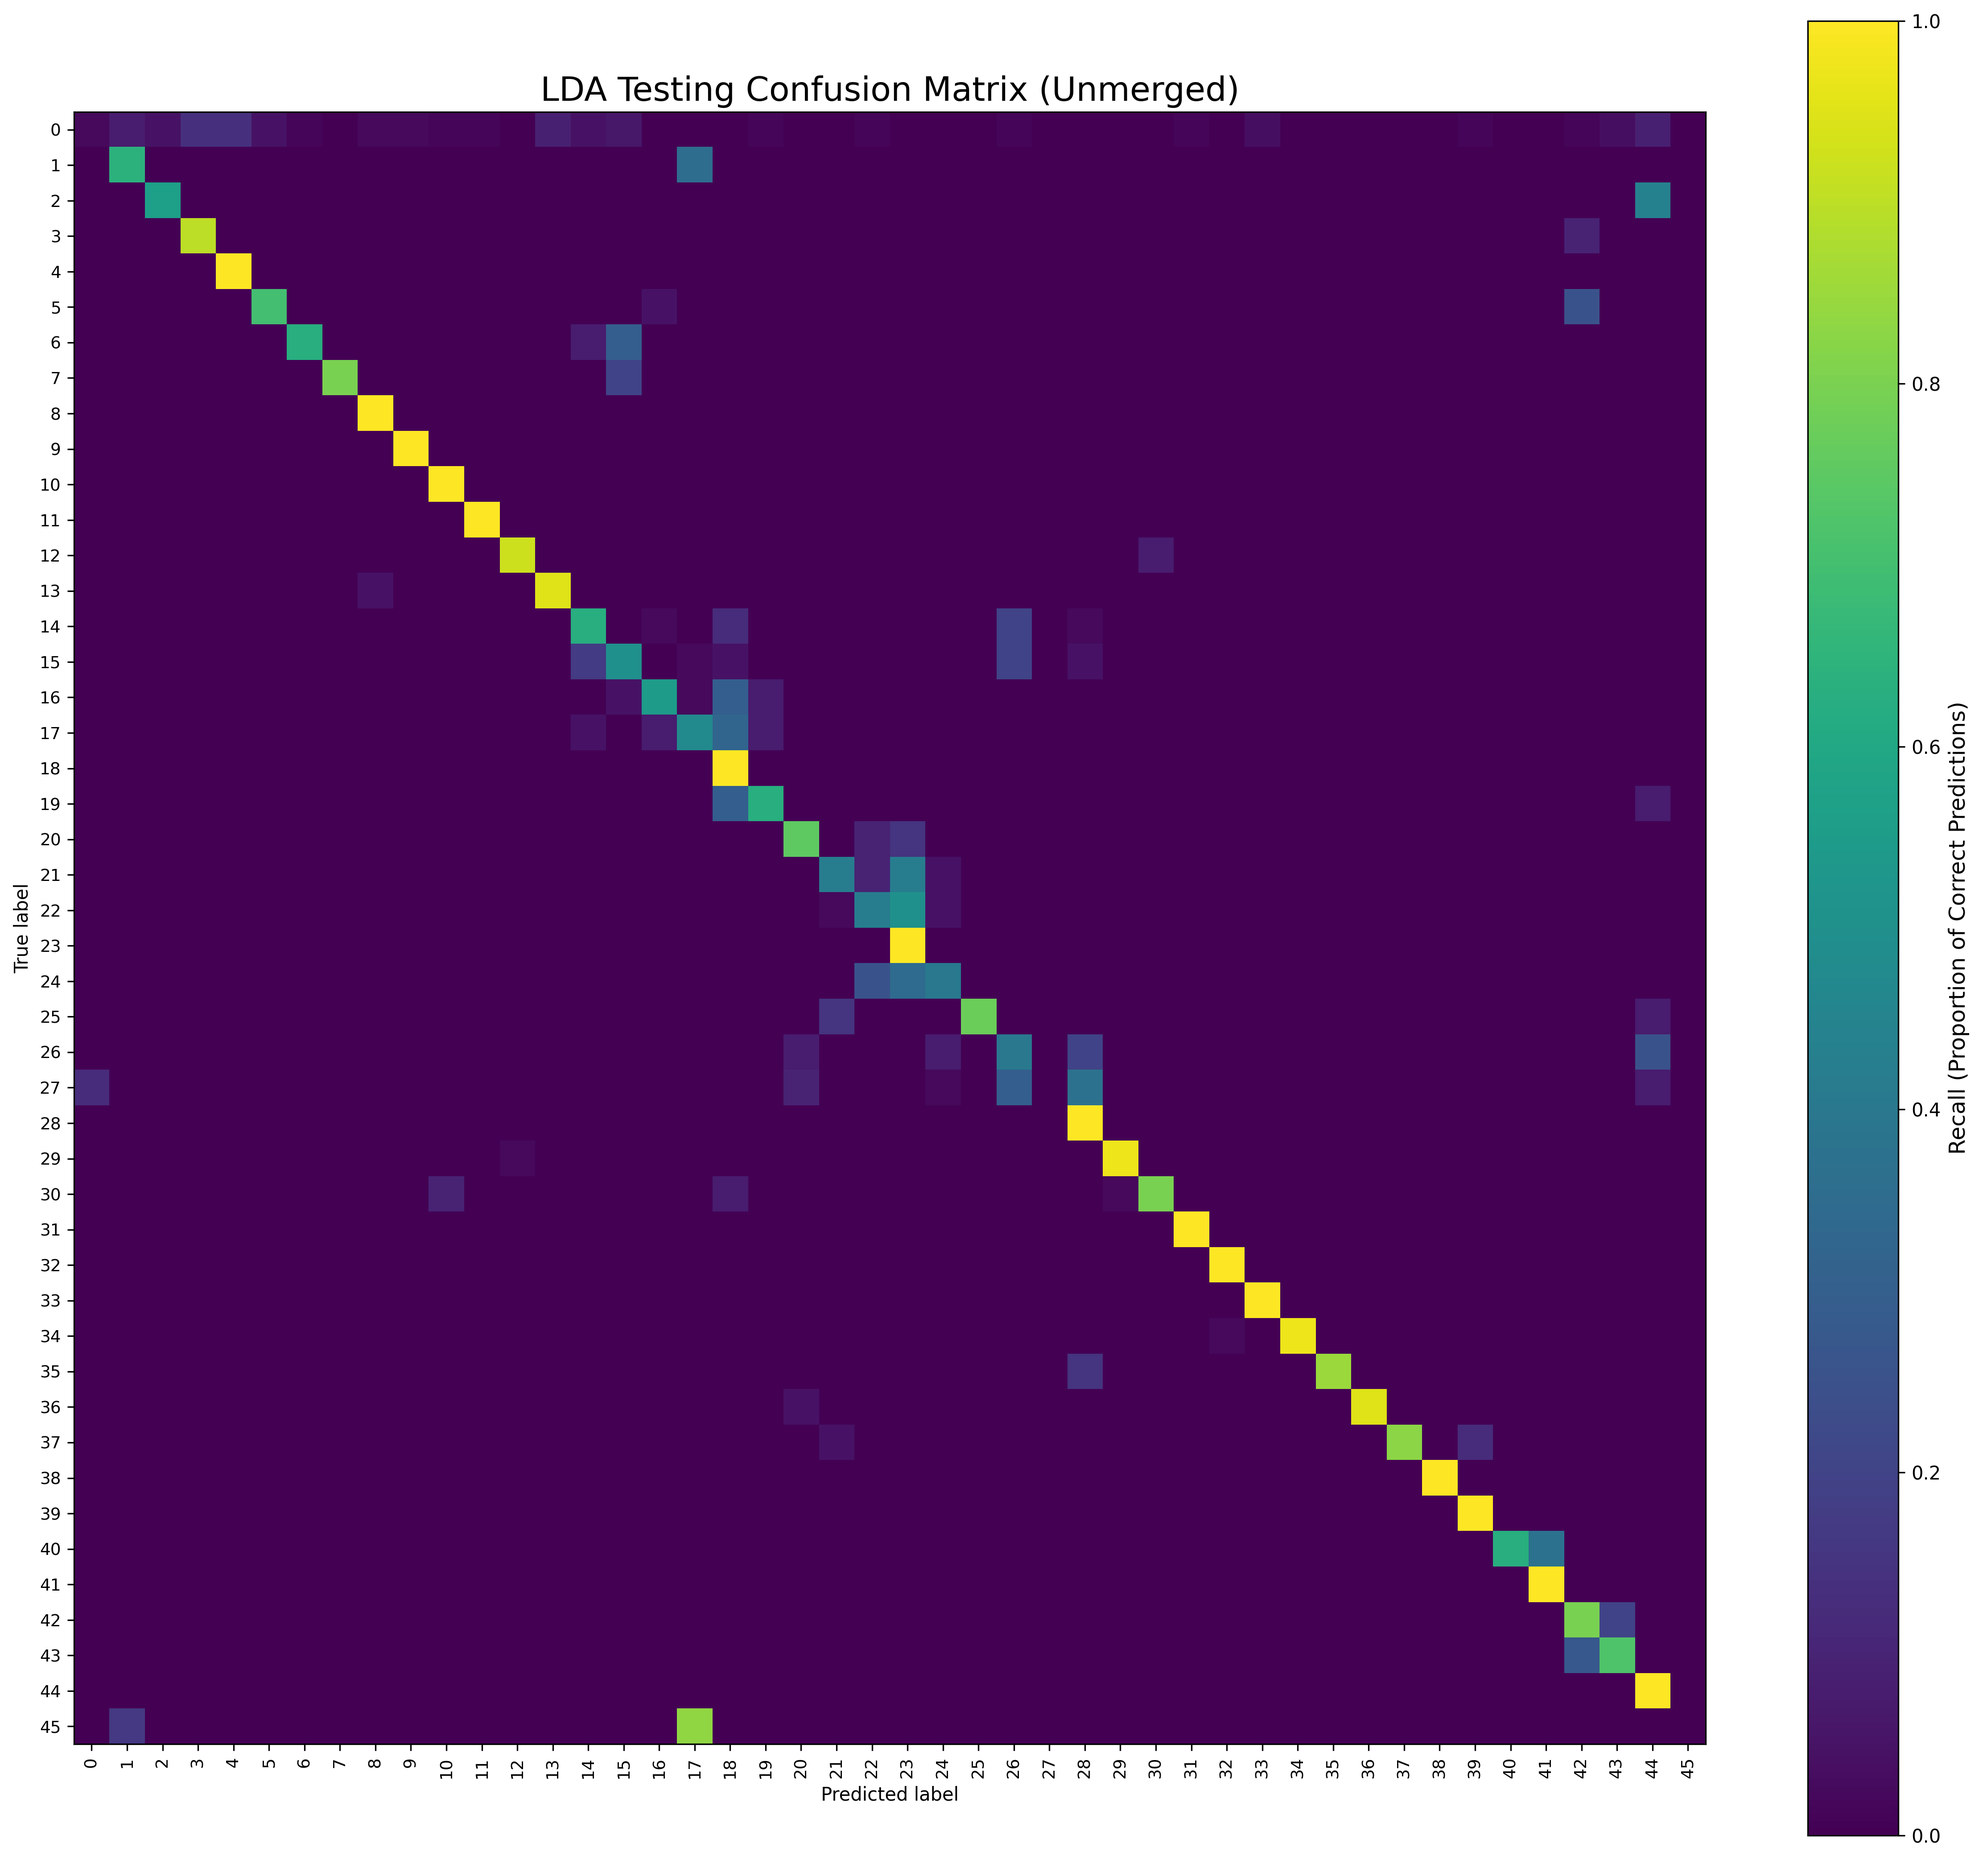
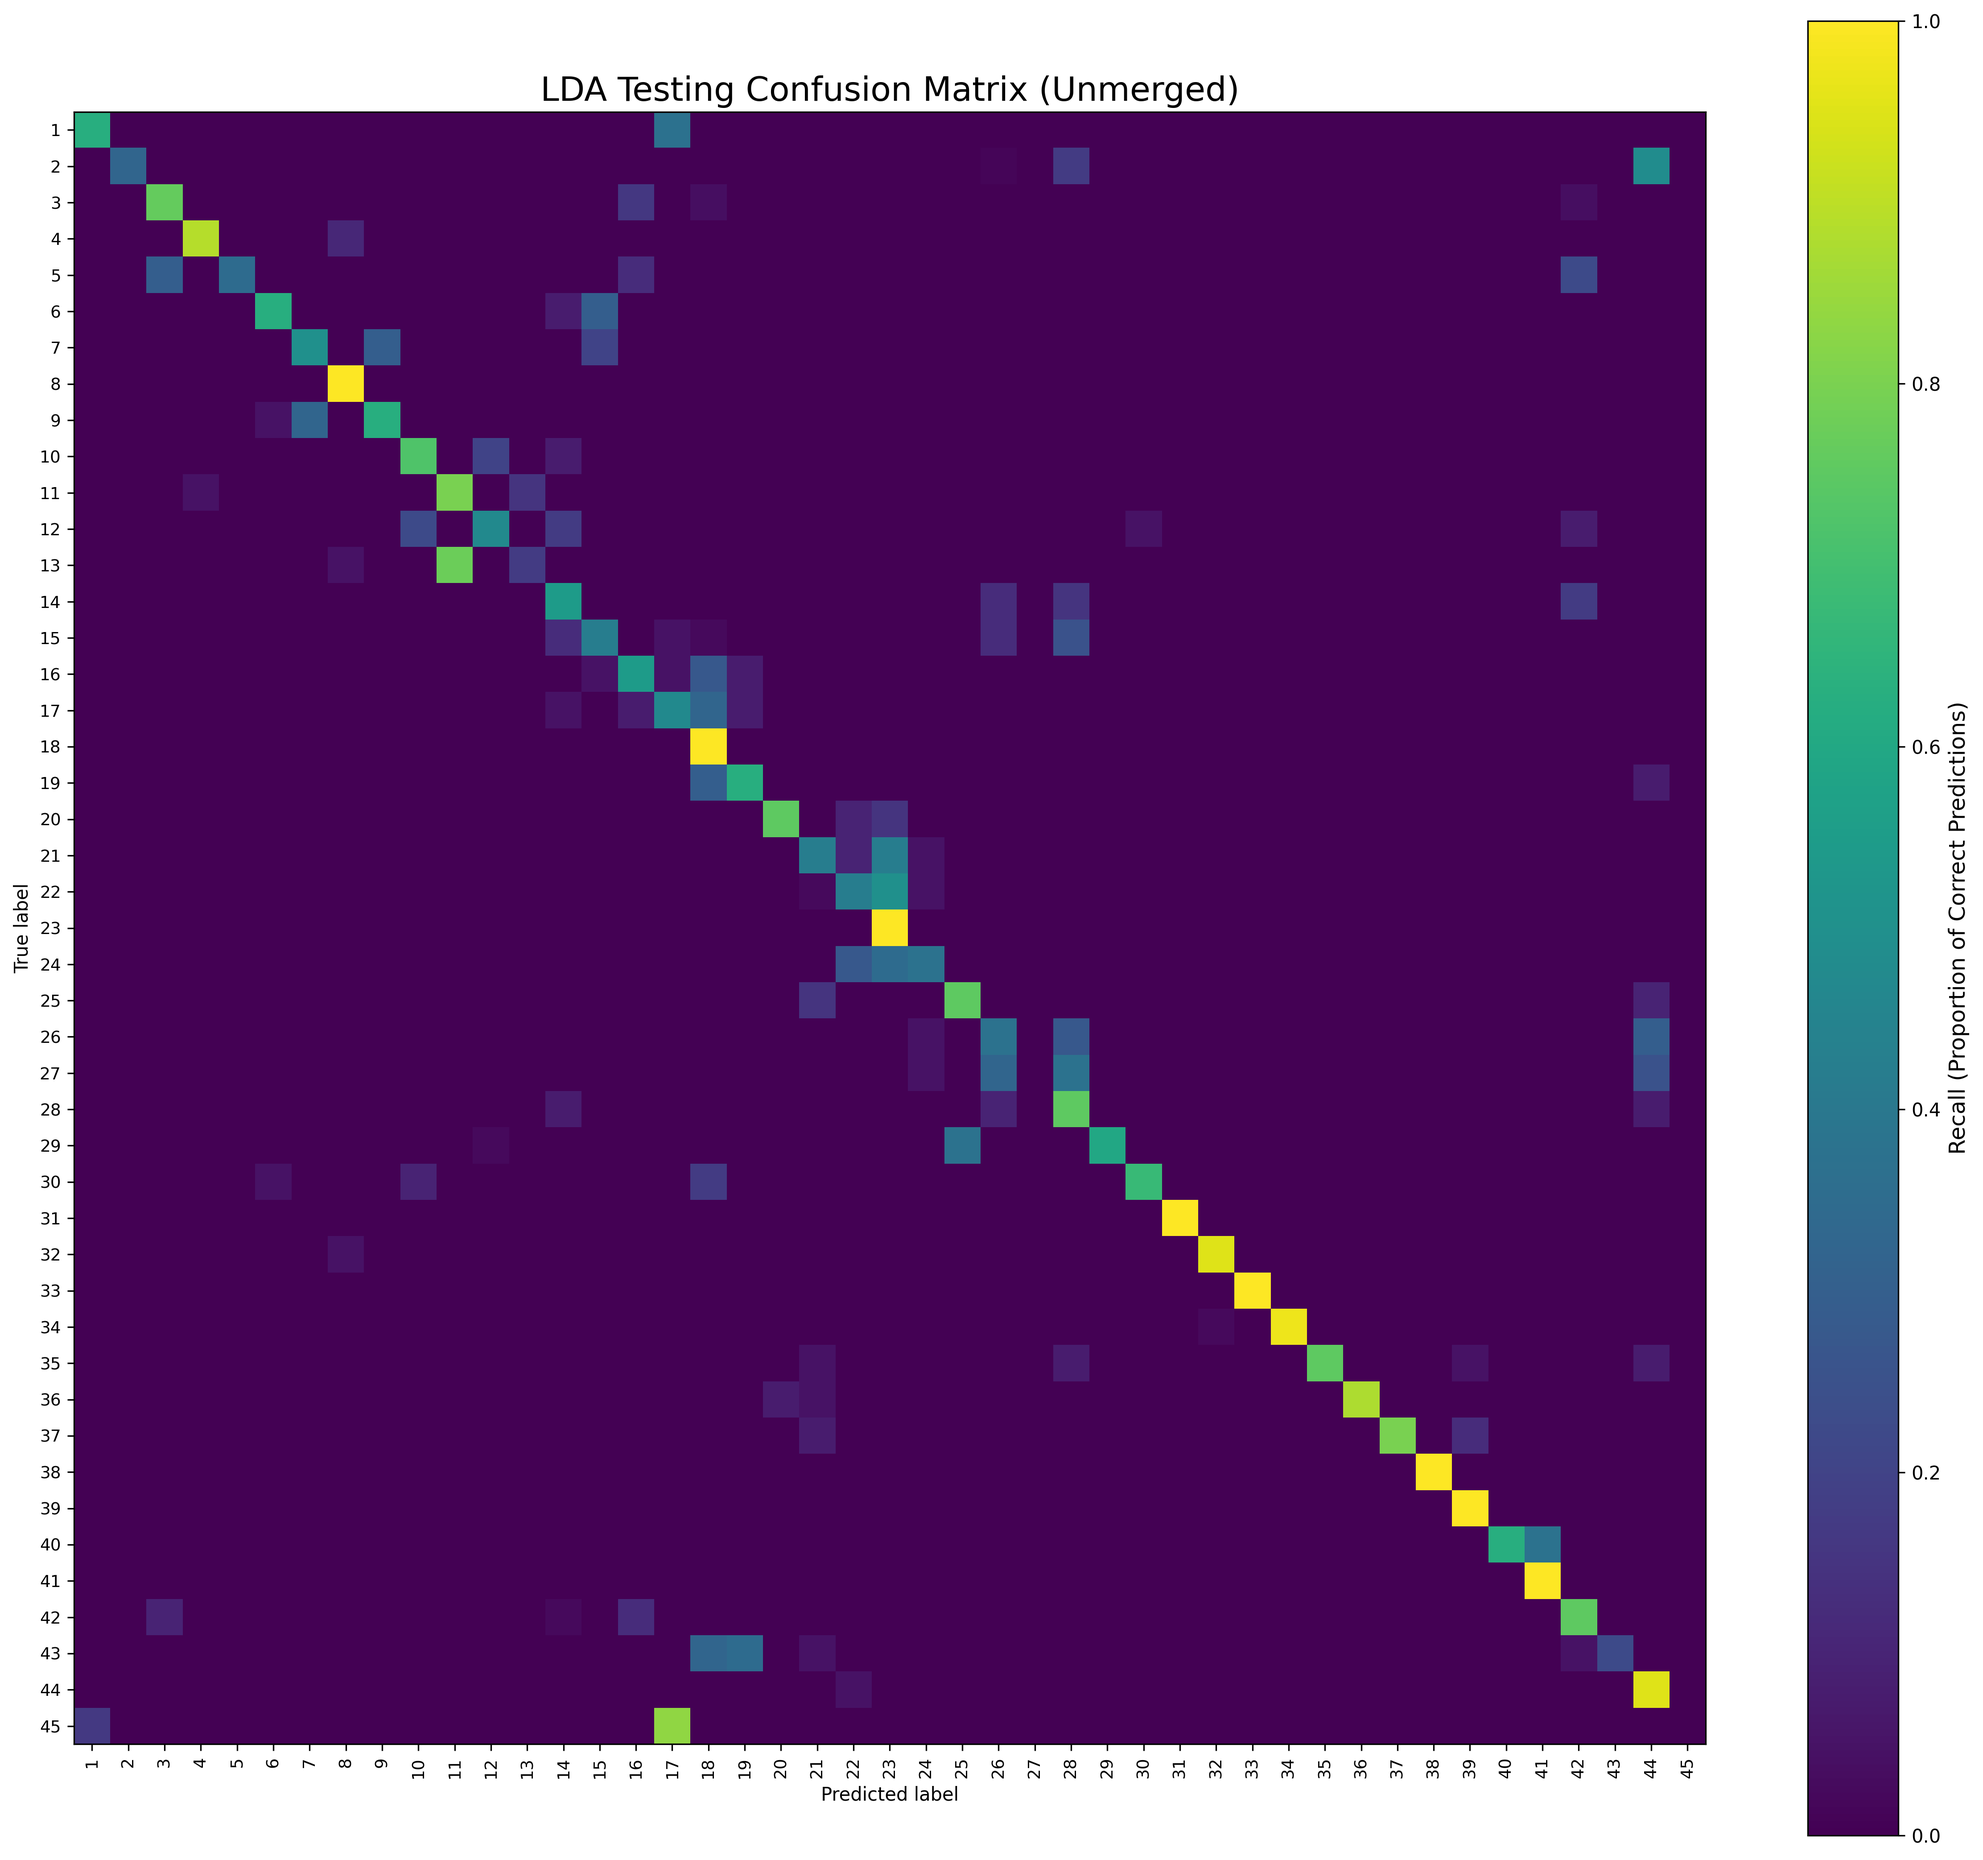
postion data extracted

diff --git a/classification_starter.py b/classification_starter.py
@@ -40,6 +40,7 @@ globalArgs = parse_args()
 with open("assets/class_info.json", "r") as f:
     globalClassInfo = json.load(f)
 
+
 def lda_projection(train_feats, train_labels, test_feats, reg=1e-6):
     X = train_feats
     y = train_labels
@@ -347,7 +348,7 @@ def perform_traditional(
             targets=train_labels,
             predictions=pred_train_labels,
             title="LDA Training Confusion Matrix (Unmerged)",
-            filename=f"unmerged_test_confusion_matrix_{key}.png",
+            filename=f"unmerged_test_confusion_matrix_{key}",
             class_names=globalClassInfo["names"]["short_unmerged"],
             save_prefix="LDA",
             results_dir=results_dir,
@@ -356,7 +357,7 @@ def perform_traditional(
             targets=test_labels,
             predictions=pred_test_labels,
             title="LDA Testing Confusion Matrix (Unmerged)",
-            filename=f"unmerged_test_confusion_matrix_{key}.png",
+            filename=f"unmerged_test_confusion_matrix_{key}",
             class_names=globalClassInfo["names"]["short_unmerged"],
             save_prefix="LDA",
             results_dir=results_dir,
@@ -707,6 +708,8 @@ def classification(args):
             accuracyMetrics[key]["f1WithProjectionTest"].append(testF1)
             accuracyMetrics[key]["f1WithProjectionTrain"].append(trainF1)
 
+            print(f"\n\n ------- Completed Iteration {subject + 1} ----------------")
+
     file_id = "_".join(globalArgs.features)
     output_file = f"metrics_{file_id}.txt"
     with open(output_file, "w", encoding="utf-8") as f:
@@ -729,7 +732,7 @@ def classification(args):
                 f"  F1 Score (With Projection Test):  {format_metric(metrics['f1WithProjectionTest'])}",
                 f"  F1 Score (No Projection Test):    {format_metric(metrics['f1WithoutProjectionTest'])}",
                 f"  F1 Score (With Projection Train): {format_metric(metrics['f1WithProjectionTrain'])}",
-                f"  F1 Score (No Projection Train):   {format_metric(metrics['f1WithoutProjectionTrain'])}"
+                f"  F1 Score (No Projection Train):   {format_metric(metrics['f1WithoutProjectionTrain'])}",
             ]
 
             # Join the block with newlines and print/write

diff --git a/util.py b/util.py
@@ -49,26 +49,16 @@ def plot_conf_mat(
     save_prefix="",
     normalize="true",
 ):
-    """
-    Plot and save a single normalized confusion matrix.
-
-    Args:
-        targets (array-like): Ground truth labels
-        predictions (array-like): Predicted labels
-        title (str): Plot title
-        filename (str): Base filename (without .png)
-        class_names (list, optional): List of class names indexed by label
-        save_prefix (str, optional): Prefix added to filename
-        normalize (str or None): Passed to sklearn confusion_matrix
-    """
-
-    cm = confusion_matrix(targets, predictions, normalize=normalize)
-
     os.makedirs(results_dir, exist_ok=True)
-
     fig, ax = plt.subplots(figsize=(16, 14))
 
+    
     unique_indices = np.unique(targets)
+
+    cm = confusion_matrix(
+        targets, predictions, labels=unique_indices, normalize=normalize
+    )
+
     if class_names is not None:
         display_labels = [class_names[i] for i in unique_indices]
     else:
@@ -78,12 +68,20 @@ def plot_conf_mat(
 
     disp.plot(ax=ax, xticks_rotation="vertical", include_values=False, cmap="viridis")
 
+    
+    ax.set_xticks(np.arange(len(display_labels)))
+    ax.set_xticklabels(display_labels, rotation="vertical")
+    ax.set_yticks(np.arange(len(display_labels)))
+    ax.set_yticklabels(display_labels)
+
     disp.im_.set_clim(0, 1)
     ax.tick_params(axis="both", which="major", labelsize=9)
     ax.set_title(title, fontsize=18)
 
-    cbar = ax.images[-1].colorbar
-    cbar.set_label("Recall (Proportion of Correct Predictions)", fontsize=12)
+    if disp.im_.colorbar:
+        disp.im_.colorbar.set_label(
+            "Recall (Proportion of Correct Predictions)", fontsize=12
+        )
 
     plt.tight_layout()
 

diff --git a/README.md b/README.md
@@ -4,8 +4,11 @@
 
 We suggest setting up a virtual environment for this project. This may be done using Conda or Python's built-in `venv` module. For example, using `venv`, you can create and activate a virtual environment as follows:
 
-```bashpython -m venv prml
-source prml/bin/activate  # On Windows, use `prml\Scripts\activate`
+```bash
+python -m venv .venv
+source .venv/bin/activate  
+# On Windows, use 
+.venv\Scripts\activate
 ```
 
 To install PyTorch, you can follow the instructions on the [official PyTorch website](https://pytorch.org/get-started/locally/). Make sure to select the appropriate options for your system (e.g., operating system, package manager, Python version, and CUDA version if applicable).
